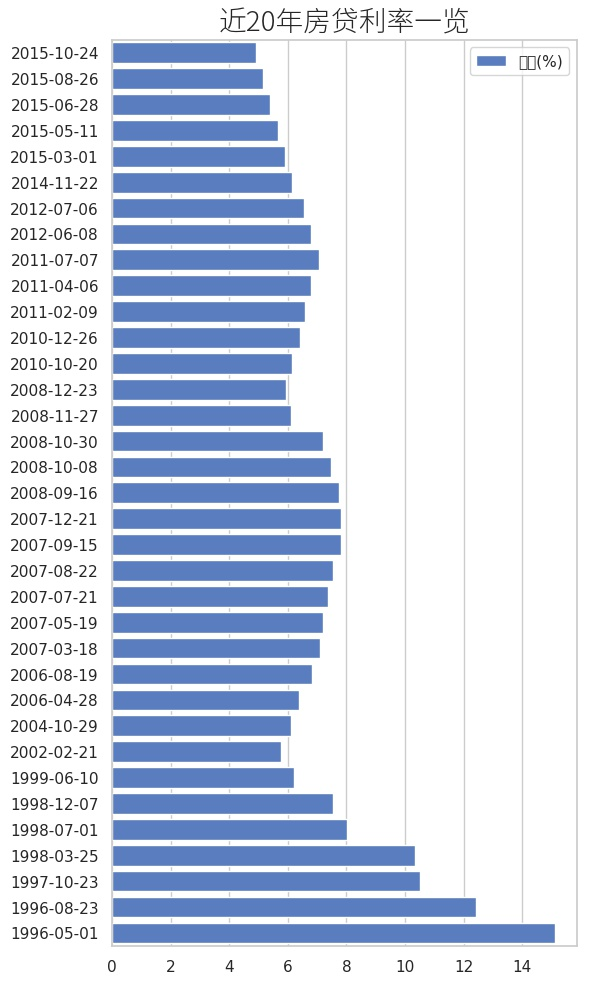
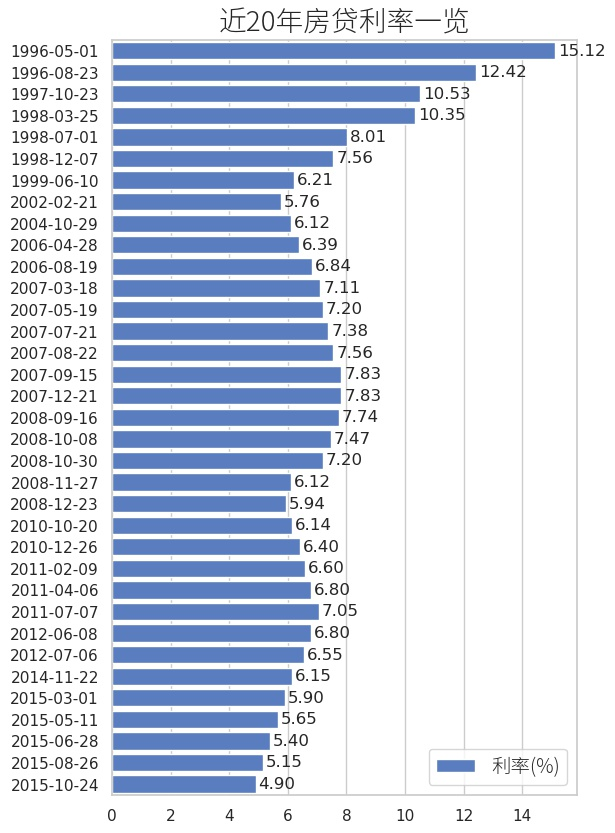
柱状图顶端现在可以显示具体数值了

Changed region(s): [[0.0, 0.0, 1.0, 0.9988]]

diff --git a/programming_notes/files/seaborn_barplot_demo.py b/programming_notes/files/seaborn_barplot_demo.py
@@ -10,7 +10,7 @@ fname = '/usr/share/fonts/adobe-source-han-sans-cn/SourceHanSansCN-Light.otf'
 myfont = FontProperties(fname=fname, size=20)
 
 sns.set(style='whitegrid')
-f, ax = plt.subplots(figsize=(6, 12))
+f, ax = plt.subplots(figsize=(6, 10))
 
 # 读取csv数据，因为内容含中文，所以要指定编码
 loan_rate = pd.read_csv(u'央行历年贷款基准利率.csv', encoding='gb18030')
@@ -19,19 +19,22 @@ loan_rate = pd.read_csv(u'央行历年贷款基准利率.csv', encoding='gb18030
 df = loan_rate.iloc[:, [0, -1]]
 df.columns = ['date', 'rate']
 df.date = pd.to_datetime(df.date, format='%Y.%m.%d').astype('unicode')
-df = df[::-1]
+# df = df[::-1]
 
 sns.set_color_codes('muted')
 bar = sns.barplot(x='rate', y='date', data=df, 
-                  label='利率(%)', color='b')
+                  label=u'利率(%)', color='b')
+
+# 在柱顶显示具体数值
+for idx, row in df.iterrows():
+    bar.text(x=row.rate+0.1, y=idx, s='{:.2f}'.format(row.rate), va='center')
 
 # 设置图例，调整文字大小(rcParams["legend.fontsize"] = 14)
 ax.legend(ncol=2, loc='best', frameon=True, prop={'size': 14, 'fname': fname})
-
 ax.set(xlabel='', ylabel='')
-ax.set_title('近20年房贷利率一览', fontproperties=myfont)
+ax.set_title(u'近20年房贷利率一览', fontproperties=myfont)
 plt.show()
 
 # bbox_inches需要设置为tight，否则保存下来的图不完整
-f.savefig('近20年房贷利率柱状图.jpg', dpi=100, bbox_inches='tight')
+f.savefig(u'近20年房贷利率柱状图.jpg', dpi=100, bbox_inches='tight')
 

diff --git a/programming_notes/python/seaborn-barplot-demo.md b/programming_notes/python/seaborn-barplot-demo.md
@@ -5,6 +5,7 @@
 * 通过pandas读取、处理csv数据
 * 使用seaborn绘图
 * 数据含有中文，制图输出时含有中文，这都是注意点
+* 要在柱顶显示文本
 
 ## 文件
 
@@ -26,7 +27,7 @@ fname = '/usr/share/fonts/adobe-source-han-sans-cn/SourceHanSansCN-Light.otf'
 myfont = FontProperties(fname=fname, size=20)
 
 sns.set(style='whitegrid')
-f, ax = plt.subplots(figsize=(6, 12))
+f, ax = plt.subplots(figsize=(6, 10))
 
 # 读取csv数据，因为内容含中文，所以要指定编码
 loan_rate = pd.read_csv(u'央行历年贷款基准利率.csv', encoding='gb18030')
@@ -35,28 +36,26 @@ loan_rate = pd.read_csv(u'央行历年贷款基准利率.csv', encoding='gb18030
 df = loan_rate.iloc[:, [0, -1]]
 df.columns = ['date', 'rate']
 df.date = pd.to_datetime(df.date, format='%Y.%m.%d').astype('unicode')
-df = df[::-1]
 
 sns.set_color_codes('muted')
-bar = sns.barplot(x='rate', y='date', data=df,
-                  label='利率(%)', color='b')
+bar = sns.barplot(x='rate', y='date', data=df, 
+                  label=u'利率(%)', color='b')
 
-# 设置图例字体以显示中文，调整文字大小(rcParams["legend.fontsize"] = 14)
+# 在柱顶显示具体数值
+for idx, row in df.iterrows():
+    bar.text(x=row.rate+0.1, y=idx, s='{:.2f}'.format(row.rate), va='center')
+
+# 设置图例，调整文字大小(rcParams["legend.fontsize"] = 14)
 ax.legend(ncol=2, loc='best', frameon=True, prop={'size': 14, 'fname': fname})
-
 ax.set(xlabel='', ylabel='')
-ax.set_title('近20年房贷利率一览', fontproperties=myfont)
+ax.set_title(u'近20年房贷利率一览', fontproperties=myfont)
 plt.show()
 
 # bbox_inches需要设置为tight，否则保存下来的图不完整
-f.savefig('近20年房贷利率柱状图.jpg', dpi=100, bbox_inches='tight')
+f.savefig(u'近20年房贷利率柱状图.jpg', dpi=100, bbox_inches='tight')
 ```
 
 ## 效果图
 
 ![](../files/近20年房贷利率柱状图.jpg)
-
-## 待完善
-
-2. 想要在柱顶显示对应数值
 
